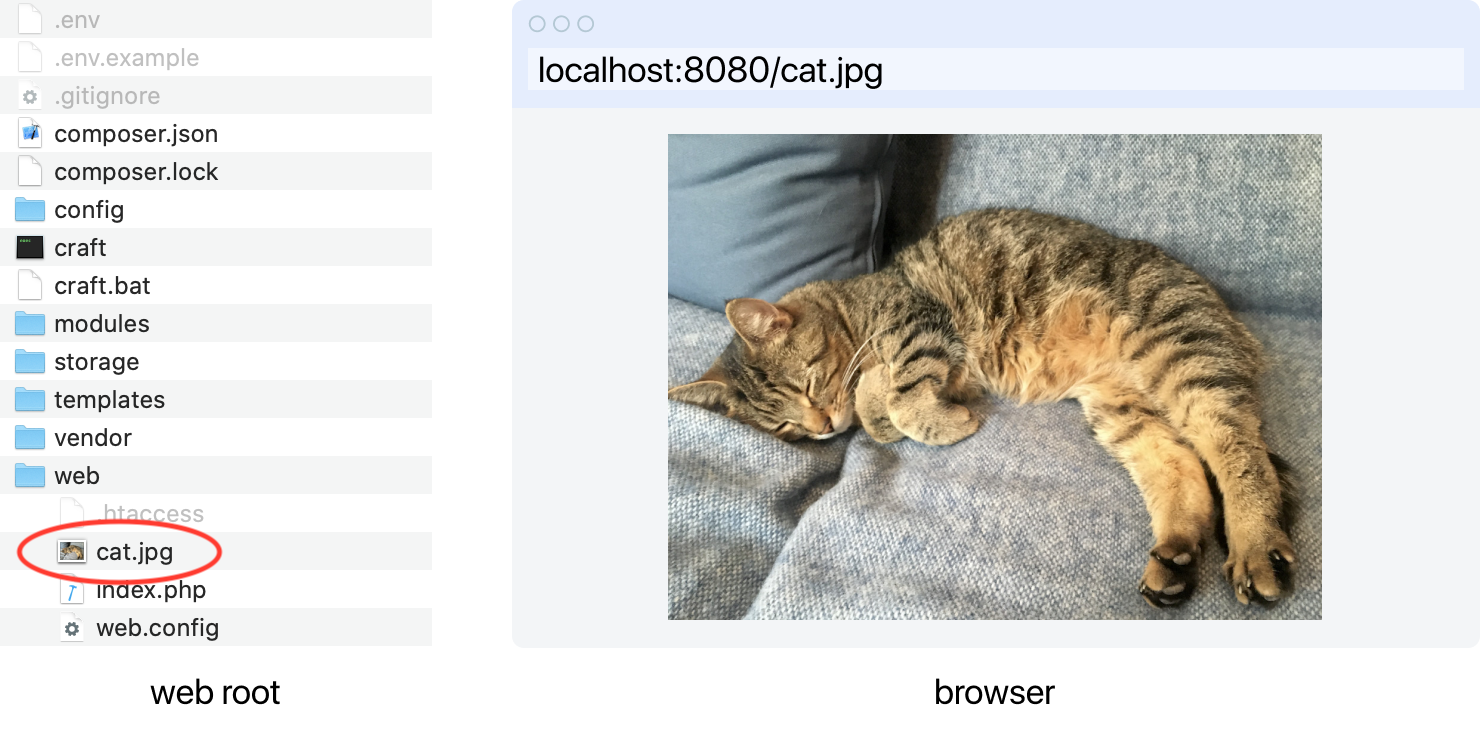
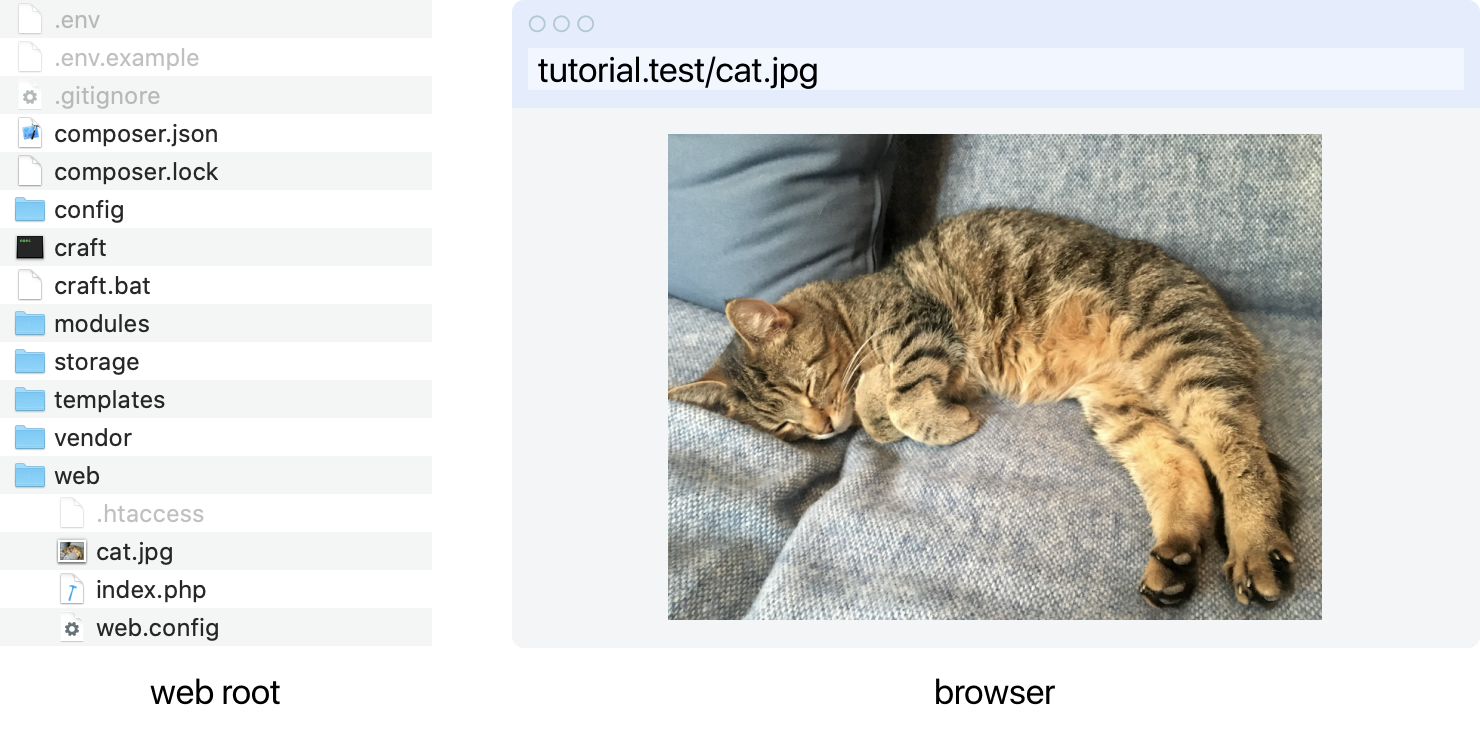
`localhost:8080` → `tutorial.test`

diff --git a/docs/build/templates.md b/docs/build/templates.md
@@ -10,7 +10,7 @@ We want to follow [DRY methodology](https://en.wikipedia.org/wiki/Don%27t_repeat
 
 The layout is important for this because it will be the base from which our other templates _extend_.
 
-The underscore (`_`) at the beginning of the filename, `_layout.twig`, means the template is private: unlike the quick example we started with, you _cannot_ view the template by visiting `https://localhost:8080/_layout`. We can use underscores when it makes sense—in this case it’s because the layout is only a shell and isn’t meant to appear on its own.
+The underscore (`_`) at the beginning of the filename, `_layout.twig`, means the template is private: unlike the quick example we started with, you _cannot_ view the template by visiting `https://tutorial.test/_layout`. We can use underscores when it makes sense—in this case it’s because the layout is only a shell and isn’t meant to appear on its own.
 
 Copy this into the `templates/_layout.twig` file you created:
 
@@ -76,7 +76,7 @@ The first line _extends_ the layout template, meaning it will use that as a star
 
 Now that the blog section’s template is ready, you can visit the URL for a published post:
 
-<BrowserShot url="https://localhost:8080/blog/my-first-post" :link="false" caption="">
+<BrowserShot url="https://tutorial.test/blog/my-first-post" :link="false" caption="">
 <img src="../../images/tutorial-entry-static.png" alt="Screenshot of empty page with generic title" />
 </BrowserShot>
 
@@ -98,7 +98,7 @@ That’s clearly no the title we should display on every page. For any detail pa
 
 Now it’s looking better!
 
-<BrowserShot url="https://localhost:8080/blog/my-first-post" :link="false" caption="">
+<BrowserShot url="https://tutorial.test/blog/my-first-post" :link="false" caption="">
 <img src="../../images/tutorial-entry-dynamic.png" alt="Screenshot of detail page with dynamic title and entry date" />
 </BrowserShot>
 
@@ -130,7 +130,7 @@ For each asset, we output a `img` HTML tag using `{{ image.url }}` to get the we
 
 We should now see the image after refreshing the page:
 
-<BrowserShot url="https://localhost:8080/blog/my-first-post" :link="false" caption="">
+<BrowserShot url="https://tutorial.test/blog/my-first-post" :link="false" caption="">
 <img src="../../images/tutorial-entry-with-image.png" alt="Screenshot of detail page with dynamic image added" />
 </BrowserShot>
 
@@ -165,7 +165,7 @@ We’ll use Twig to create an object called `featureImage` with the settings we 
 
 You can now refresh the front end and see your transformed asset:
 
-<BrowserShot url="https://localhost:8080/blog/my-first-post" :link="false" caption="Automatically-resized image, cropped at 900×600px.">
+<BrowserShot url="https://tutorial.test/blog/my-first-post" :link="false" caption="Automatically-resized image, cropped at 900×600px.">
 <img src="../../images/tutorial-image-resized.png" alt="Screenshot of detail page with auto-sized image" />
 </BrowserShot>
 
@@ -217,7 +217,7 @@ Matrix content is stored in whatever blocks we’ve defined. To display that con
 
 The Matrix content will now be included on the page:
 
-<BrowserShot url="https://localhost:8080/blog/my-first-post" :link="false" caption="Detail page with post content added." :max-height="600">
+<BrowserShot url="https://tutorial.test/blog/my-first-post" :link="false" caption="Detail page with post content added." :max-height="600">
 <img src="../../images/tutorial-matrix-content.png" alt="Screenshot of detail page with post content" />
 </BrowserShot>
 
@@ -420,7 +420,7 @@ We’ll display a listing of posts in two places: in the blog index and again on
 
 Let’s start with our landing page first.
 
-Create `templates/blog/index.twig`. Any time you use `index.twig` or `index.html`, that will be the default template or page in a given folder. So when we visit `https://localhost:8080/blog/`, that folder’s `blog/index.twig` will be used for rendering the result. Add the following to that template:
+Create `templates/blog/index.twig`. Any time you use `index.twig` or `index.html`, that will be the default template or page in a given folder. So when we visit `https://tutorial.test/blog/`, that folder’s `blog/index.twig` will be used for rendering the result. Add the following to that template:
 
 ```twig
 {% extends "_layout" %}
@@ -468,7 +468,7 @@ The image transform is similar to what we did earlier, except we used `.one()` i
 
 Here’s what the result looks like:
 
-<BrowserShot url="https://localhost:8080/blog/" :link="false" caption="">
+<BrowserShot url="https://tutorial.test/blog/" :link="false" caption="">
 <img src="../../images/tutorial-listing.png" alt="Screenshot of listing page" />
 </BrowserShot>
 
@@ -485,7 +485,7 @@ Transformed images will automatically be cropped from the center, but a content 
 
 Back on the front end, refresh the listing page and you’ll see the re-cropped thumbnail:
 
-<BrowserShot url="https://localhost:8080/blog/" :link="false" caption="Listing page with adjusted thumbnail focal point.">
+<BrowserShot url="https://tutorial.test/blog/" :link="false" caption="Listing page with adjusted thumbnail focal point.">
 <img src="../../images/tutorial-listing-with-custom-focal-point.png" alt="Screenshot of listing page where post thumbnail is cropped toward focal point of image" />
 </BrowserShot>
 
@@ -516,7 +516,7 @@ In the same way that entry detail pages came automatically loaded with an `entry
 
 Our post category listings, which you can navigate to by choosing any of a blog post’s tags, should be working now:
 
-<BrowserShot url="https://localhost:8080/blog/category/ramblings" :link="false" caption="Listing page for posts in the `Ramblings` category.">
+<BrowserShot url="https://tutorial.test/blog/category/ramblings" :link="false" caption="Listing page for posts in the `Ramblings` category.">
 <img src="../../images/tutorial-listing-category.png" alt="Screenshot of listing page limited by category" />
 </BrowserShot>
 
@@ -569,7 +569,7 @@ Now let’s include that in `templates/_layout.twig`:
 </html>
 ```
 
-<BrowserShot url="https://localhost:8080/blog" :link="false" caption="Blog listing with navigation." :max-height="600">
+<BrowserShot url="https://tutorial.test/blog" :link="false" caption="Blog listing with navigation." :max-height="600">
 <img src="../../images/tutorial-navigation.png" alt="Screenshot of blog listing with new top navigation" />
 </BrowserShot>
 
@@ -602,6 +602,6 @@ Create `template/_singles/about.twig` and add the following to it:
 
 We’re using some CSS utility classes to create a two-column layout here, but otherwise you’ll recognize all the pieces from previous examples!
 
-<BrowserShot url="https://localhost:8080/about" :link="false" caption="The About page.">
+<BrowserShot url="https://tutorial.test/about" :link="false" caption="The About page.">
 <img src="../../images/tutorial-single.png" alt="Screenshot of two-colum About page" />
 </BrowserShot>

diff --git a/docs/configure/section.md b/docs/configure/section.md
@@ -11,7 +11,7 @@ The first thing we’ll do is create a new Section for our blog posts.
 5. Enter `blog/_entry` for the “Template” setting. We’ll create that template later on.
 6. Leave the rest of the default settings as they are and choose “Save”.
 
-<BrowserShot url="https://localhost:8080/admin/settings/sections/new" :link="false" caption="Settings for the new blog section.">
+<BrowserShot url="https://tutorial.test/admin/settings/sections/new" :link="false" caption="Settings for the new blog section.">
 <img src="../../images/tutorial-new-section.png" alt="Screenshot of new section fields" />
 </BrowserShot>
 
@@ -19,7 +19,7 @@ You’ll see a new “Entries” menu item in the control panel navigation. Choo
 
 Technically we could create a new blog post now, but all we would have is a “Title” field.
 
-<BrowserShot url="https://localhost:8080/entries/blog6?draftId=5&fresh=1" :link="false" caption="The new blog post entry doesn’t yet have any fields.">
+<BrowserShot url="https://tutorial.test/entries/blog6?draftId=5&fresh=1" :link="false" caption="The new blog post entry doesn’t yet have any fields.">
 <img src="../../images/tutorial-empty-new-entry.png" alt="Screenshot of new blog post entry with only a title" />
 </BrowserShot>
 
@@ -55,7 +55,7 @@ Create a local Asset Volume for storing blog post images:
 `@web` and `@webroot` are [aliases](https://docs.craftcms.com/v3/config/#aliases) Craft includes by default, pointing to the base website URL and document root file path respectively.
 :::
 
-<BrowserShot url="https://localhost:8080/admin/settings/assets/volumes/new" :link="false" caption="Settings for the new blog volume.">
+<BrowserShot url="https://tutorial.test/admin/settings/assets/volumes/new" :link="false" caption="Settings for the new blog volume.">
 <img src="../../images/tutorial-new-asset-volume.png" alt="Screenshot of settings for the new asset volume" />
 </BrowserShot>
 
@@ -73,7 +73,7 @@ Now create a Category Group we can use for blog post categories:
 4. For “Category URI Format”, enter `blog/category/{slug}` and set the template to `blog/_category`.
 5. Save the Category Group.
 
-<BrowserShot url="https://localhost:8080/admin/settings/categories/new" :link="false" caption="Settings for the new blog category group.">
+<BrowserShot url="https://tutorial.test/admin/settings/categories/new" :link="false" caption="Settings for the new blog category group.">
 <img src="../../images/tutorial-new-category-group.png" alt="Screenshot of new category group fields" />
 </BrowserShot>
 
@@ -86,7 +86,7 @@ You’ll probably want a rich text editor (WYSISYG) for editing the main text of
 
 That’s it! The Redactor plugin is installed and ready to use in our site.
 
-<BrowserShot url="https://localhost:8080/admin/settings/plugins" :link="false" caption="Redactor now appears in the list of installed Plugins, where it can also be disabled and uninstalled.">
+<BrowserShot url="https://tutorial.test/admin/settings/plugins" :link="false" caption="Redactor now appears in the list of installed Plugins, where it can also be disabled and uninstalled.">
 <img src="../../images/tutorial-redactor-plugin.png" alt="Screenshot of plugins list showing Redactor installed" />
 </BrowserShot>
 
@@ -110,7 +110,7 @@ Next, let’s create the individual fields for our blog posts:
       Choose “+ New block type” again and enter “Image” for its name. Enter “Image” again for the “Name” under Field Settings. Mark this field required as well and select “Assets” from the “Field Type” dropdown menu. Restrict uploads to the “Blog” volume, enable “Restrict allowed file types?” and make sure “Image” is checked.
    3. Save the field.
 
-<BrowserShot url="https://localhost:8080/admin/settings/fields/2" :link="false" caption="Our complete group of new fields.">
+<BrowserShot url="https://tutorial.test/admin/settings/fields/2" :link="false" caption="Our complete group of new fields.">
 <img src="../../images/tutorial-new-blog-fields.png" alt="Screenshot of complete Blog Post Fields group" />
 </BrowserShot>
 
@@ -131,7 +131,7 @@ Now we have everything we need to collect content for our blog posts. If you wer
 You can also drag an entire field group from the available sets into your entry type’s field layout.
 :::
 
-<BrowserShot url="https://localhost:8080/admin/settings/sections/1/entrytypes/1" :link="false" caption="Completed blog entry type field layout.">
+<BrowserShot url="https://tutorial.test/admin/settings/sections/1/entrytypes/1" :link="false" caption="Completed blog entry type field layout.">
 <img src="../../images/tutorial-blog-field-layout.png" alt="Screenshot of complete blog field layout" />
 </BrowserShot>
 
@@ -139,6 +139,6 @@ That “Title Field Label” is a simple way to relabel the title—which *every
 
 Once you’ve added fields to the blog section’s field layout, return to “Entries” and create a new “Blog” entry. You’ll see each of the fields you created and you’re ready to publish some content!
 
-<BrowserShot url="https://localhost:8080/admin/entries/blog/7?draftId=6&fresh=1" :link="false" caption="A new blog post entry now includes our custom fields.">
+<BrowserShot url="https://tutorial.test/admin/entries/blog/7?draftId=6&fresh=1" :link="false" caption="A new blog post entry now includes our custom fields.">
 <img src="../../images/tutorial-new-entry-with-fields.png" alt="Screenshot of new entry screen with our custom fields" />
 </BrowserShot>

diff --git a/docs/build/graphql.md b/docs/build/graphql.md
@@ -15,7 +15,7 @@ First upgrade your Craft Solo edition to Craft Pro:
 1. From the control panel, choose the “Solo” badge in the bottom left corner.
 2. In the “Pro” panel, choose “Try for free”.
 
-<BrowserShot url="https://localhost:8080/admin/plugin-store/upgrade-craft" :link="false" caption="Upgrading from Solo to Pro.">
+<BrowserShot url="https://tutorial.test/admin/plugin-store/upgrade-craft" :link="false" caption="Upgrading from Solo to Pro.">
 <img src="../../images/tutorial-upgrade-pro.png" alt="Screenshot of plugin store upgrading to Craft Pro trial" />
 </BrowserShot>
 
@@ -23,7 +23,7 @@ Your edition will be upgraded and you’ll see a new GraphQL item in the navigat
 
 This is the GraphiQL explorer for browsing API documentation and running queries directly in the browser:
 
-<BrowserShot url="https://localhost:8080/admin/graphql" :link="false" caption="The GraphiQL explorer.">
+<BrowserShot url="https://tutorial.test/admin/graphql" :link="false" caption="The GraphiQL explorer.">
 <img src="../../images/tutorial-graphql.png" alt="Screenshot of GraphiQL" />
 </BrowserShot>
 
@@ -39,7 +39,7 @@ Try running a test GraphQL query:
 
 You’ll see `pong` in the response signaling that everything’s ready to go:
 
-<BrowserShot url="https://localhost:8080/admin/graphql?query=%7B%20ping%20%7D%0A" :link="false" caption="It’s working!">
+<BrowserShot url="https://tutorial.test/admin/graphql?query=%7B%20ping%20%7D%0A" :link="false" caption="It’s working!">
 <img src="../../images/tutorial-graphql-ping.png" alt="Screenshot of GraphiQL with simple query and response" />
 </BrowserShot>
 
@@ -163,12 +163,12 @@ The response should be something like this:
       "title": "My first post",
       "postDate": "20 Mar 2020",
       "postDateAlt": "2020-03-20",
-      "url": "https://localhost:8080/blog/my-first-post",
+      "url": "https://tutorial.test/blog/my-first-post",
       "featureImage": [
         {
           "title": "Craft Image from Unsplash",
-          "url": "https://localhost:8080/assets/blog/tim-gouw-rXBwosfgG-c-unsplash.jpg",
-          "sized": "https://localhost:8080/assets/blog/_900x600_crop_center-center_90_none/tim-gouw-rXBwosfgG-c-unsplash.jpg"
+          "url": "https://tutorial.test/assets/blog/tim-gouw-rXBwosfgG-c-unsplash.jpg",
+          "sized": "https://tutorial.test/assets/blog/_900x600_crop_center-center_90_none/tim-gouw-rXBwosfgG-c-unsplash.jpg"
         }
       ],
       "postContent": [
@@ -181,7 +181,7 @@ The response should be something like this:
           "image": [
             {
               "title": "Little Drinks",
-              "url": "https://localhost:8080/assets/blog/rosie-kerr-Z0iBELYV8uk-unsplash.jpg"
+              "url": "https://tutorial.test/assets/blog/rosie-kerr-Z0iBELYV8uk-unsplash.jpg"
             }
           ]
         },
@@ -235,12 +235,12 @@ Result:
     "entries": [
       {
         "title": "My first post",
-        "url": "https://localhost:8080/blog/my-first-post",
+        "url": "https://tutorial.test/blog/my-first-post",
         "featureImage": [
           {
             "title": "Craft Image from Unsplash",
-            "url": "https://localhost:8080/assets/blog/tim-gouw-rXBwosfgG-c-unsplash.jpg",
-            "sized": "https://localhost:8080/assets/blog/_300x300_crop_center-center_none/tim-gouw-rXBwosfgG-c-unsplash.jpg",
+            "url": "https://tutorial.test/assets/blog/tim-gouw-rXBwosfgG-c-unsplash.jpg",
+            "sized": "https://tutorial.test/assets/blog/_300x300_crop_center-center_none/tim-gouw-rXBwosfgG-c-unsplash.jpg",
             "focalPoint": [
               0.2059,
               0.6287
@@ -354,7 +354,7 @@ Result:
       "aboutImage": [
         {
           "title": "Floating in Space",
-          "url": "https://localhost:8080/assets/general/nasa-Yj1M5riCKk4-unsplash.jpg"
+          "url": "https://tutorial.test/assets/general/nasa-Yj1M5riCKk4-unsplash.jpg"
         }
       ],
       "postContent": [

diff --git a/docs/configure/control-panel.md b/docs/configure/control-panel.md
@@ -4,7 +4,7 @@ The control panel may seem a bit empty—that’s a feature, not bug! Craft does
 
 ## Dashboard
 
-<BrowserShot url="https://localhost:8080/admin/dashboard" :link="false" caption="The control panel without any content.">
+<BrowserShot url="https://tutorial.test/admin/dashboard" :link="false" caption="The control panel without any content.">
 <img src="../../images/tutorial-empty-control-panel.png" alt="Screenshot of the Craft CMS control panel Dashboard" />
 </BrowserShot>
 
@@ -18,7 +18,7 @@ To the left, then, is the sidebar navigation. (You may have to use the hamburger
 
 ## Utilities
 
-<BrowserShot url="https://localhost:8080/admin/utilities/system-report" :link="false" caption="The System Report utility lists important details about your installation.">
+<BrowserShot url="https://tutorial.test/admin/utilities/system-report" :link="false" caption="The System Report utility lists important details about your installation.">
 <img src="../../images/tutorial-utilities.png" alt="Screenshot of the Craft CMS utilities section" />
 </BrowserShot>
 
@@ -26,7 +26,7 @@ You probably won’t need to visit Utilies too often, but it has some helpful to
 
 By default you’ll land on the System Report. These are key details about your Craft install, and while we’re here it’s a good idea to make sure that each of the items under “Requirements” has a green check mark next to it.
 
-<BrowserShot url="https://localhost:8080/admin/utilities/system-report" :link="false" caption="Installed with flying colors.">
+<BrowserShot url="https://tutorial.test/admin/utilities/system-report" :link="false" caption="Installed with flying colors.">
 <img src="../../images/tutorial-system-requirements.png" alt="Screenshot of the System Report’s Requirements list with all green checkmarks" />
 </BrowserShot>
 
@@ -47,6 +47,6 @@ We won’t be using these utilities in this tutorial, but it might be good to kn
 
 Craft’s built-in plugin offers free and paid plugins that can add functionality to your Craft CMS website.
 
-<BrowserShot url="https://localhost:8080/admin/plugin-store" :link="false" caption="The Craft CMS Plugin Store.">
+<BrowserShot url="https://tutorial.test/admin/plugin-store" :link="false" caption="The Craft CMS Plugin Store.">
 <img src="../../images/tutorial-plugin-store.png" alt="Screenshot of Plugin Store" />
 </BrowserShot>

diff --git a/docs/configure/single.md b/docs/configure/single.md
@@ -30,7 +30,7 @@ Now we can create the about page single:
 4. Enter `about` for “URI”, and `_singles/about` for “Template”.
 5. Save this section.
 
-<BrowserShot url="https://localhost:8080/admin/settings/sections/new" :link="false" caption="Settings for the new about single.">
+<BrowserShot url="https://tutorial.test/admin/settings/sections/new" :link="false" caption="Settings for the new about single.">
 <img src="../../images/tutorial-about-single.png" alt="Screenshot of new single fields" />
 </BrowserShot>
 
@@ -40,7 +40,7 @@ Follow the same process as the blog section to add fields to the about single:
 2. Create a “Content” tab and drag the “About Image” and “Post Content” fields to it. (Notice we’re re-using the “Post Content” field we created for blog entries.)
 3. Save the entry type.
 
-<BrowserShot url="https://localhost:8080/admin/settings/sections/2/entrytypes/2" :link="false" caption="The new about single’s field layout configuration.">
+<BrowserShot url="https://tutorial.test/admin/settings/sections/2/entrytypes/2" :link="false" caption="The new about single’s field layout configuration.">
 <img src="../../images/tutorial-about-field-layout.png" alt="Screenshot of about field type configuration" />
 </BrowserShot>
 

diff --git a/docs/install/server.md b/docs/install/server.md
@@ -4,13 +4,13 @@ The last thing Craft needs is the ability to run in a web browser. For this, you
 
 If you attempt to visit your local site’s URL in your browser and see `HTTP 503 – Service Unavailable`, you’re on the right track!
 
-<BrowserShot url="https://localhost:8080" :link="false">
+<BrowserShot url="https://tutorial.test" :link="false">
 <img src="../../images/tutorial-503.png" alt="Screenshot of 503 unavailable error that means we’re close" />
 </BrowserShot>
 
-Use your admin panel URL instead. If your local environment uses `http://localhost:8080/`, for example, visit `http://localhost:8080/admin`. Instead of that 503 error, you should have a red “Install Craft” button.
+Use your admin panel URL instead. If your local environment uses `http://tutorial.test/`, for example, visit `http://tutorial.test/admin`. Instead of that 503 error, you should have a red “Install Craft” button.
 
-<BrowserShot url="https://localhost:8080/admin/install" :link="false">
+<BrowserShot url="https://tutorial.test/admin/install" :link="false">
 <img src="../../images/tutorial-install.png" alt="Screenshot of 503 unavailable error that means we’re close" />
 </BrowserShot>
 

diff --git a/docs/configure/editing.md b/docs/configure/editing.md
@@ -6,7 +6,7 @@ Now that we’ve set up sections and fields, we can focus on editing content.
 
 Navigate to “Entries” and create a new blog entry. Fill in each field.
 
-<BrowserShot url="https://localhost:8080/admin/entries/blog/9?draftId=7&fresh=1" :link="false" caption="A complete new blog post ready to be saved.">
+<BrowserShot url="https://tutorial.test/admin/entries/blog/9?draftId=7&fresh=1" :link="false" caption="A complete new blog post ready to be saved.">
 <img src="../../images/tutorial-new-entry.png" alt="Screenshot of blog post entry with fields filled in" />
 </BrowserShot>
 
@@ -54,7 +54,7 @@ Go ahead and fill in some content!
 
 Once you’ve saved an entry, you can use the globe icon from the Entries listing to jump to its public URL. The result foreshadows what’s next:
 
-<BrowserShot url="https://localhost:8080/blog/my-first-post" :link="false" caption="The front end is missing.">
+<BrowserShot url="https://tutorial.test/blog/my-first-post" :link="false" caption="The front end is missing.">
 <img src="../../images/tutorial-404.png" alt="Screenshot of public post URL 404" />
 </BrowserShot>
 

diff --git a/docs/build/routing.md b/docs/build/routing.md
@@ -4,7 +4,7 @@ Every web server has the straightforward job of translating a URL into a respons
 
 ## Static routes
 
-At this very moment, you can add a cat photo to your project at `web/cat.jpg` and see it in your browser at `https://localhost:8080/cat.jpg`. The web server reads that URL, finds the file in the web root, and gives it back in a response the browser displays. This is a _static_ route where Craft CMS never gets involved; normal web server stuff.
+At this very moment, you can add a cat photo to your project at `web/cat.jpg` and see it in your browser at `https://tutorial.test/cat.jpg`. The web server reads that URL, finds the file in the web root, and gives it back in a response the browser displays. This is a _static_ route where Craft CMS never gets involved; normal web server stuff.
 
 ![](../../images/tutorial-web-root.png)
 

diff --git a/docs/build/preview.md b/docs/build/preview.md
@@ -2,6 +2,6 @@
 
 Once you’ve added templates for each of your sections, you can visit the entry edit page in the control panel and choose the “Preview” button to slide open a panel for previewing your edits as you make them:
 
-<BrowserShot url="https://localhost:8080/admin/entries/blog/40-my-first-post" :link="false" caption="Editing a blog post with live preview.">
+<BrowserShot url="https://tutorial.test/admin/entries/blog/40-my-first-post" :link="false" caption="Editing a blog post with live preview.">
 <img src="../../images/tutorial-live-preview.png" alt="Screenshot of control panel editing a post with live preview: content on the left and a front end preview on the right" />
 </BrowserShot>

diff --git a/docs/build/twig.md b/docs/build/twig.md
@@ -52,7 +52,7 @@ For a quick example of what we’ll be doing, create `templates/twig-hello.twig`
 Hi! This site’s name is {{ siteName }}.
 ```
 
-Without any setup in Craft CMS, you can go directly to `https://localhost:8080/twig-hello` and `https://localhost:8080/html-hello.html` to see each one in your browser.
+Without any setup in Craft CMS, you can go directly to `https://tutorial.test/twig-hello` and `https://tutorial.test/html-hello.html` to see each one in your browser.
 
 The Twig version gets parsed and displays the name of your site, with a clean URL that doesn’t require a file extension.
 
